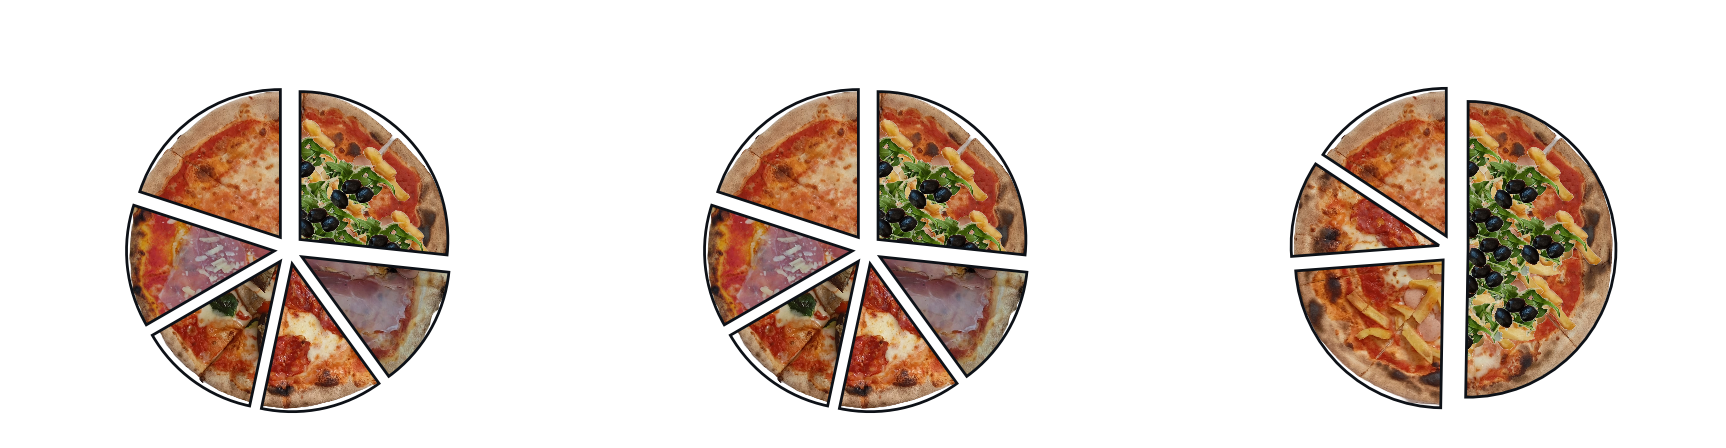
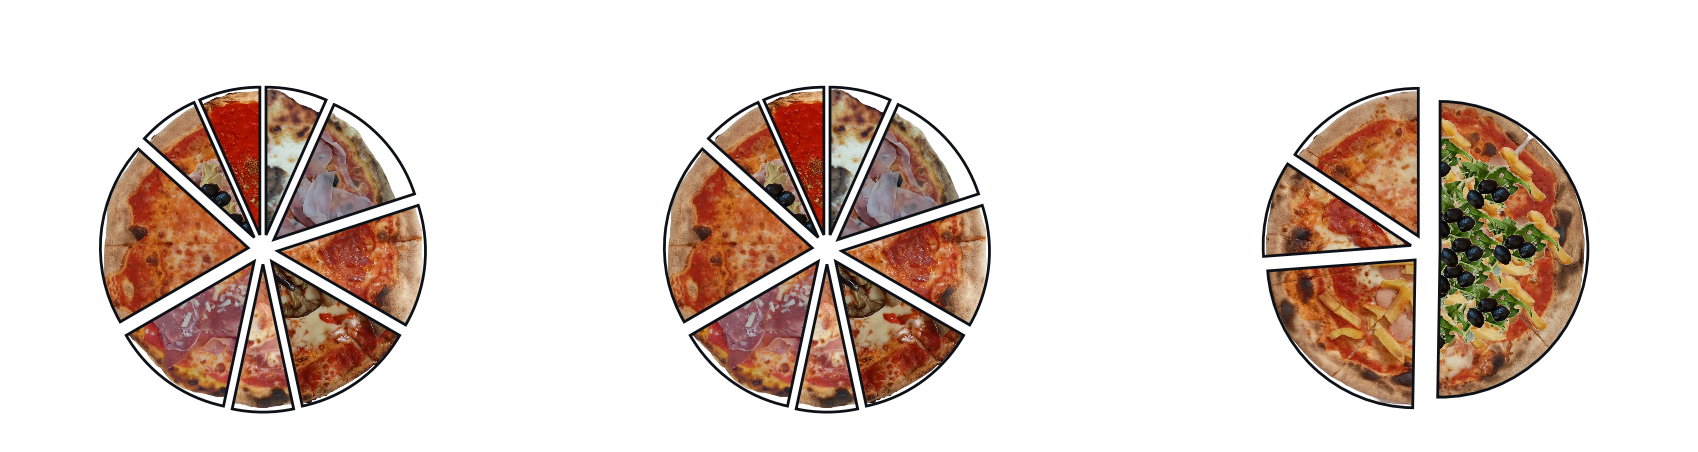
reduce cutoff

Changed region(s): [[0.3746, 0.1875, 0.5931, 0.9375], [0.0312, 0.1875, 0.2809, 0.9375], [0.7179, 0.1875, 0.9364, 0.9062]]

diff --git a/scripts/pizza_report.py b/scripts/pizza_report.py
@@ -59,7 +59,8 @@ if __name__ == '__main__':
         fig_last_time = pizza_chart.plot(order, show=False,
                                          title=title,
                                          theme=theme,
-                                         source=SOURCE
+                                         source=SOURCE,
+                                         cutoff=5.0
                                         )
         fpath = os.path.join(charts_dir, 
                              'last_time_{}.png'.format(theme)
@@ -82,7 +83,8 @@ if __name__ == '__main__':
         fig_last_time = pizza_chart.plot(order, show=False,
                                          title=title,
                                          theme=theme,
-                                         source=SOURCE
+                                         source=SOURCE,
+                                         cutoff=5.0
                                         )
         fpath = os.path.join(charts_dir, 
                              'last_month_{}.png'.format(theme)
@@ -109,7 +111,8 @@ if __name__ == '__main__':
         fig_last_time = pizza_chart.plot(order, show=False,
                                          title=title,
                                          theme=theme,
-                                         source=SOURCE
+                                         source=SOURCE,
+                                         cutoff=5.0
                                         )
         fpath = os.path.join(charts_dir, 
                              'all_time_{}.png'.format(theme)
